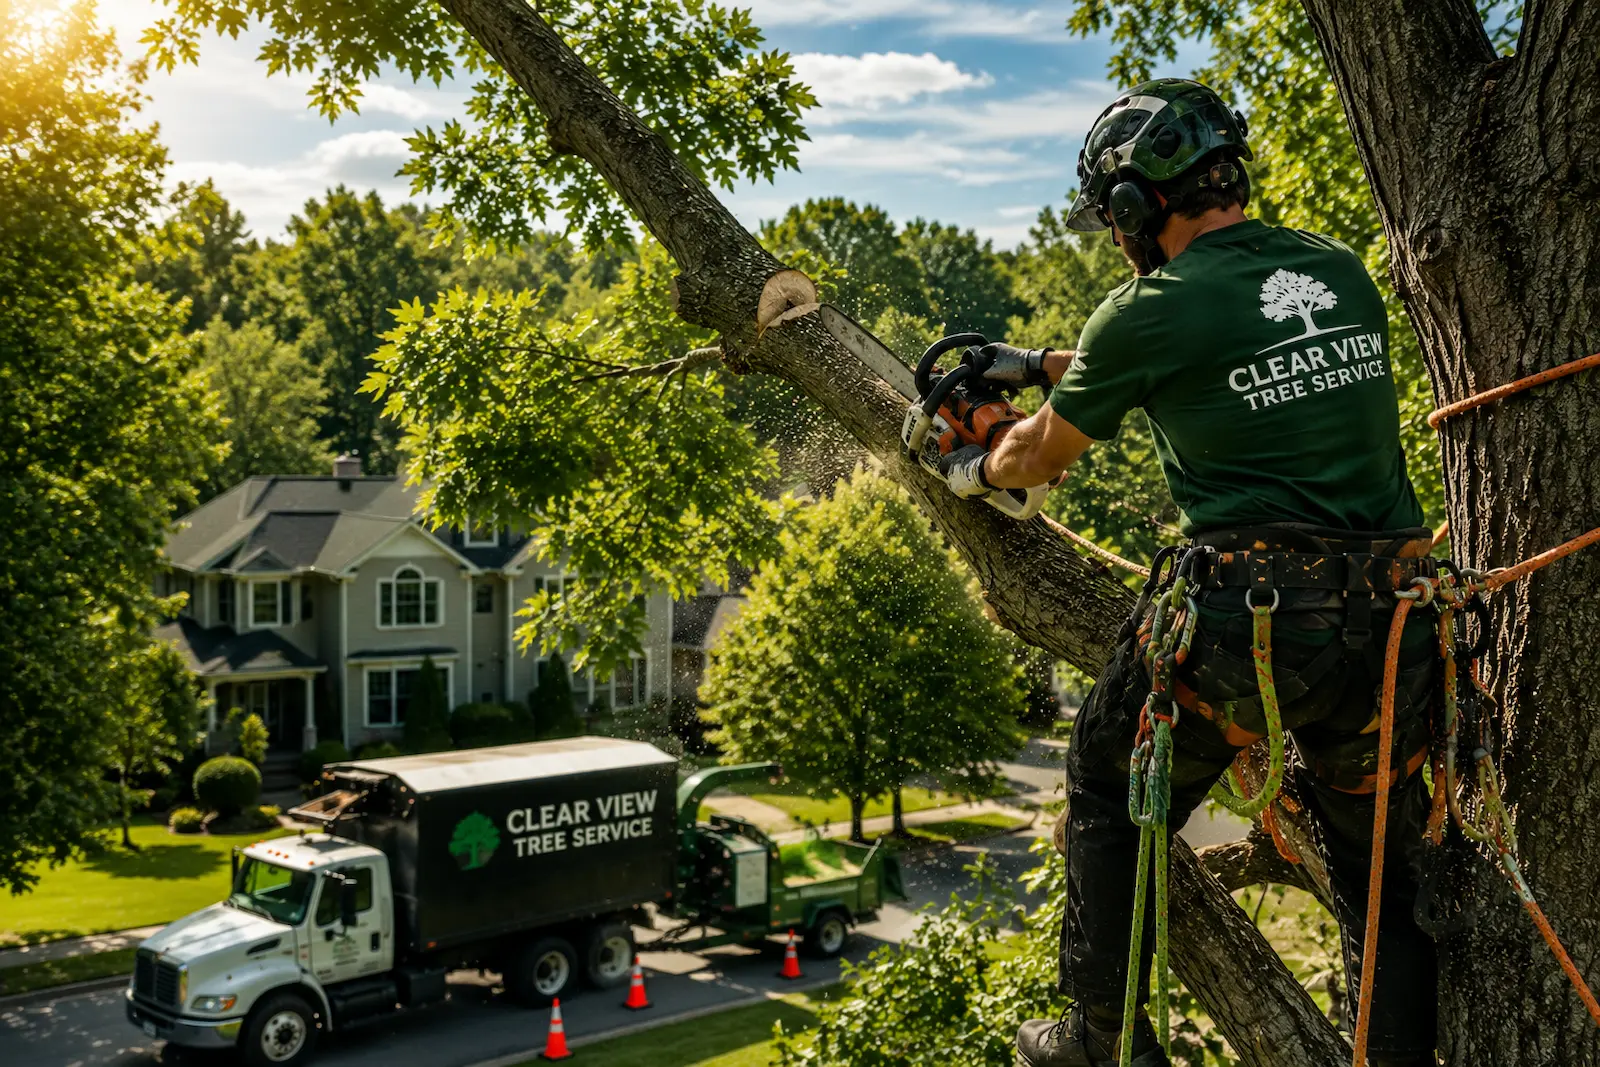
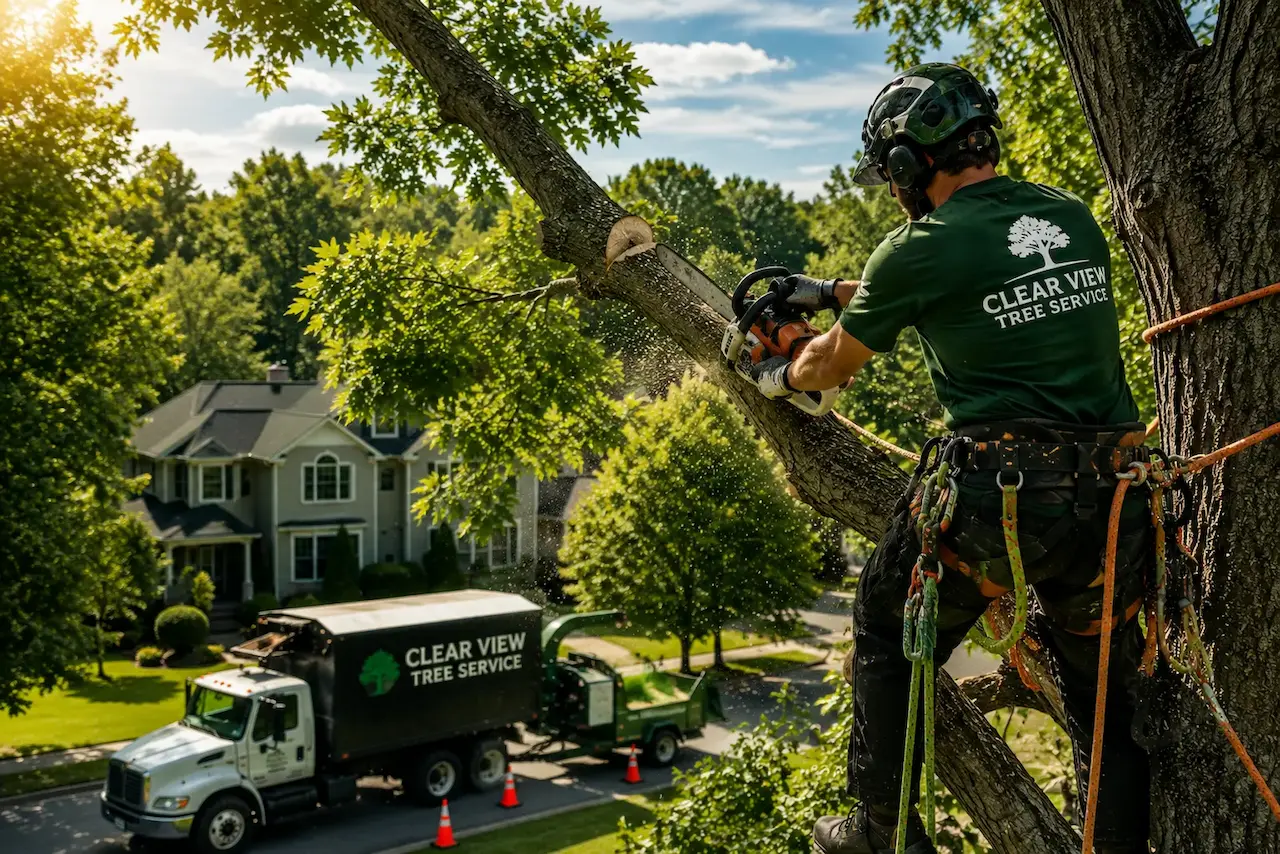
latest

diff --git a/src/App.jsx b/src/App.jsx
@@ -1,27 +1,38 @@
+import { lazy, Suspense } from "react";
 import { BrowserRouter, Routes, Route } from "react-router-dom";
 
-import Home from "./pages/Home";
-import About from "./pages/About";
-import ServicesPage from "./pages/Services";
-import Blog from "./pages/Blog";
-import Contact from "./pages/Contact";
-import Privacy from "./pages/Privacy";
-import Terms from "./pages/Terms";
-import NotFound from "./pages/NotFound";
+const Home = lazy(() => import("./pages/Home"));
+const About = lazy(() => import("./pages/About"));
+const ServicesPage = lazy(() => import("./pages/Services"));
+const Blog = lazy(() => import("./pages/Blog"));
+const Contact = lazy(() => import("./pages/Contact"));
+const Privacy = lazy(() => import("./pages/Privacy"));
+const Terms = lazy(() => import("./pages/Terms"));
+const NotFound = lazy(() => import("./pages/NotFound"));
 
 function App() {
   return (
     <BrowserRouter>
-      <Routes>
-        <Route path="/" element={<Home />} />
-        <Route path="/about" element={<About />} />
-        <Route path="/services" element={<ServicesPage />} />
-        <Route path="/blog" element={<Blog />} />
-        <Route path="/contact" element={<Contact />} />
-        <Route path="/privacy" element={<Privacy />} />
-        <Route path="/terms" element={<Terms />} />
-        <Route path="*" element={<NotFound />} />
-      </Routes>
+      <Suspense
+        fallback={
+          <div className="flex min-h-screen items-center justify-center bg-white">
+            <p className="text-lg font-semibold text-green-800">
+              Loading...
+            </p>
+          </div>
+        }
+      >
+        <Routes>
+          <Route path="/" element={<Home />} />
+          <Route path="/about" element={<About />} />
+          <Route path="/services" element={<ServicesPage />} />
+          <Route path="/blog" element={<Blog />} />
+          <Route path="/contact" element={<Contact />} />
+          <Route path="/privacy" element={<Privacy />} />
+          <Route path="/terms" element={<Terms />} />
+          <Route path="*" element={<NotFound />} />
+        </Routes>
+      </Suspense>
     </BrowserRouter>
   );
 }

diff --git a/src/components/Hero.jsx b/src/components/Hero.jsx
@@ -6,16 +6,15 @@ function Hero() {
     <section className="relative flex min-h-[90vh] items-center overflow-hidden">
       {/* Background Image */}
       <img
-        src={heroImage}
-        alt="Professional tree service in Syracuse"
-        width="1600"
-        height="900"
-        loading="eager"
-        fetchPriority="high"
-        decoding="async"
-        className="absolute inset-0 h-full w-full object-cover"
-      />
-
+  src={heroImage}
+  alt="Professional tree service in Syracuse"
+  width="1280"
+  height="720"
+  loading="eager"
+  fetchPriority="high"
+  decoding="async"
+  className="absolute inset-0 h-full w-full object-cover"
+/>
       {/* Dark Overlay */}
       <div className="absolute inset-0 bg-black/55"></div>
 

diff --git a/src/components/AboutPreview.jsx b/src/components/AboutPreview.jsx
@@ -22,8 +22,8 @@ function AboutPreview() {
           />
 
           <div className="absolute -bottom-8 -right-8 bg-green-700 text-white rounded-2xl px-8 py-6 shadow-xl">
-            <h3 className="text-4xl font-bold">15+</h3>
-            <p>Years Experience</p>
+           <p className="text-4xl font-bold">15+</p>
+<p>Years Experience</p>
           </div>
         </div>
 
@@ -48,7 +48,7 @@ function AboutPreview() {
             <div className="flex gap-4">
               <FaShieldAlt className="text-3xl text-green-700 mt-1" />
               <div>
-                <h4 className="font-bold">Licensed & Insured</h4>
+               <h3 className="font-bold">Licensed & Insured</h3>
                 <p className="text-gray-600">
                   Complete protection for your property.
                 </p>
@@ -58,7 +58,7 @@ function AboutPreview() {
             <div className="flex gap-4">
               <FaClock className="text-3xl text-green-700 mt-1" />
               <div>
-                <h4 className="font-bold">24/7 Emergency</h4>
+               <h3 className="font-bold">24/7 Emergency</h3>
                 <p className="text-gray-600">
                   Fast emergency response.
                 </p>
@@ -68,7 +68,7 @@ function AboutPreview() {
             <div className="flex gap-4">
               <FaAward className="text-3xl text-green-700 mt-1" />
               <div>
-                <h4 className="font-bold">Experienced Team</h4>
+               <h3 className="font-bold">Experienced Team</h3>
                 <p className="text-gray-600">
                   Skilled tree care professionals.
                 </p>
@@ -78,7 +78,7 @@ function AboutPreview() {
             <div className="flex gap-4">
               <FaCheckCircle className="text-3xl text-green-700 mt-1" />
               <div>
-                <h4 className="font-bold">Customer Satisfaction</h4>
+               <h3 className="font-bold">Customer Satisfaction</h3>
                 <p className="text-gray-600">
                   Quality work on every project.
                 </p>

diff --git a/src/components/Navbar.jsx b/src/components/Navbar.jsx
@@ -59,12 +59,12 @@ function Navbar() {
         </nav>
 
         {/* CTA Button */}
-        <Link
-          to="/contact"
-          className="hidden md:inline-flex items-center justify-center rounded-full bg-green-600 px-6 py-2.5 text-sm font-semibold text-white shadow-md shadow-green-600/20 transition-all duration-300 hover:-translate-y-0.5 hover:bg-green-700 hover:shadow-lg hover:shadow-green-600/30 active:translate-y-0"
-        >
-          Free Estimate
-        </Link>
+       <Link
+  to="/contact"
+  className="hidden items-center justify-center rounded-full bg-green-700 px-6 py-2.5 text-sm font-semibold text-white shadow-md shadow-green-700/20 transition-all duration-300 hover:-translate-y-0.5 hover:bg-green-800 hover:shadow-lg hover:shadow-green-700/30 active:translate-y-0 md:inline-flex"
+>
+  Free Estimate
+</Link>
       </div>
     </header>
   );

diff --git a/src/components/Testimonials.jsx b/src/components/Testimonials.jsx
@@ -48,10 +48,11 @@ function Testimonials() {
             >
               <FaQuoteLeft className="mb-6 text-4xl text-green-200" />
 
-              <div
-                className="mb-5 flex gap-1 text-yellow-500"
-                aria-label="5 out of 5 stars"
-              >
+             <div
+  className="mb-5 flex gap-1 text-yellow-500"
+  role="img"
+  aria-label="5 out of 5 stars"
+>
                 {[1, 2, 3, 4, 5].map((star) => (
                   <FaStar key={star} />
                 ))}